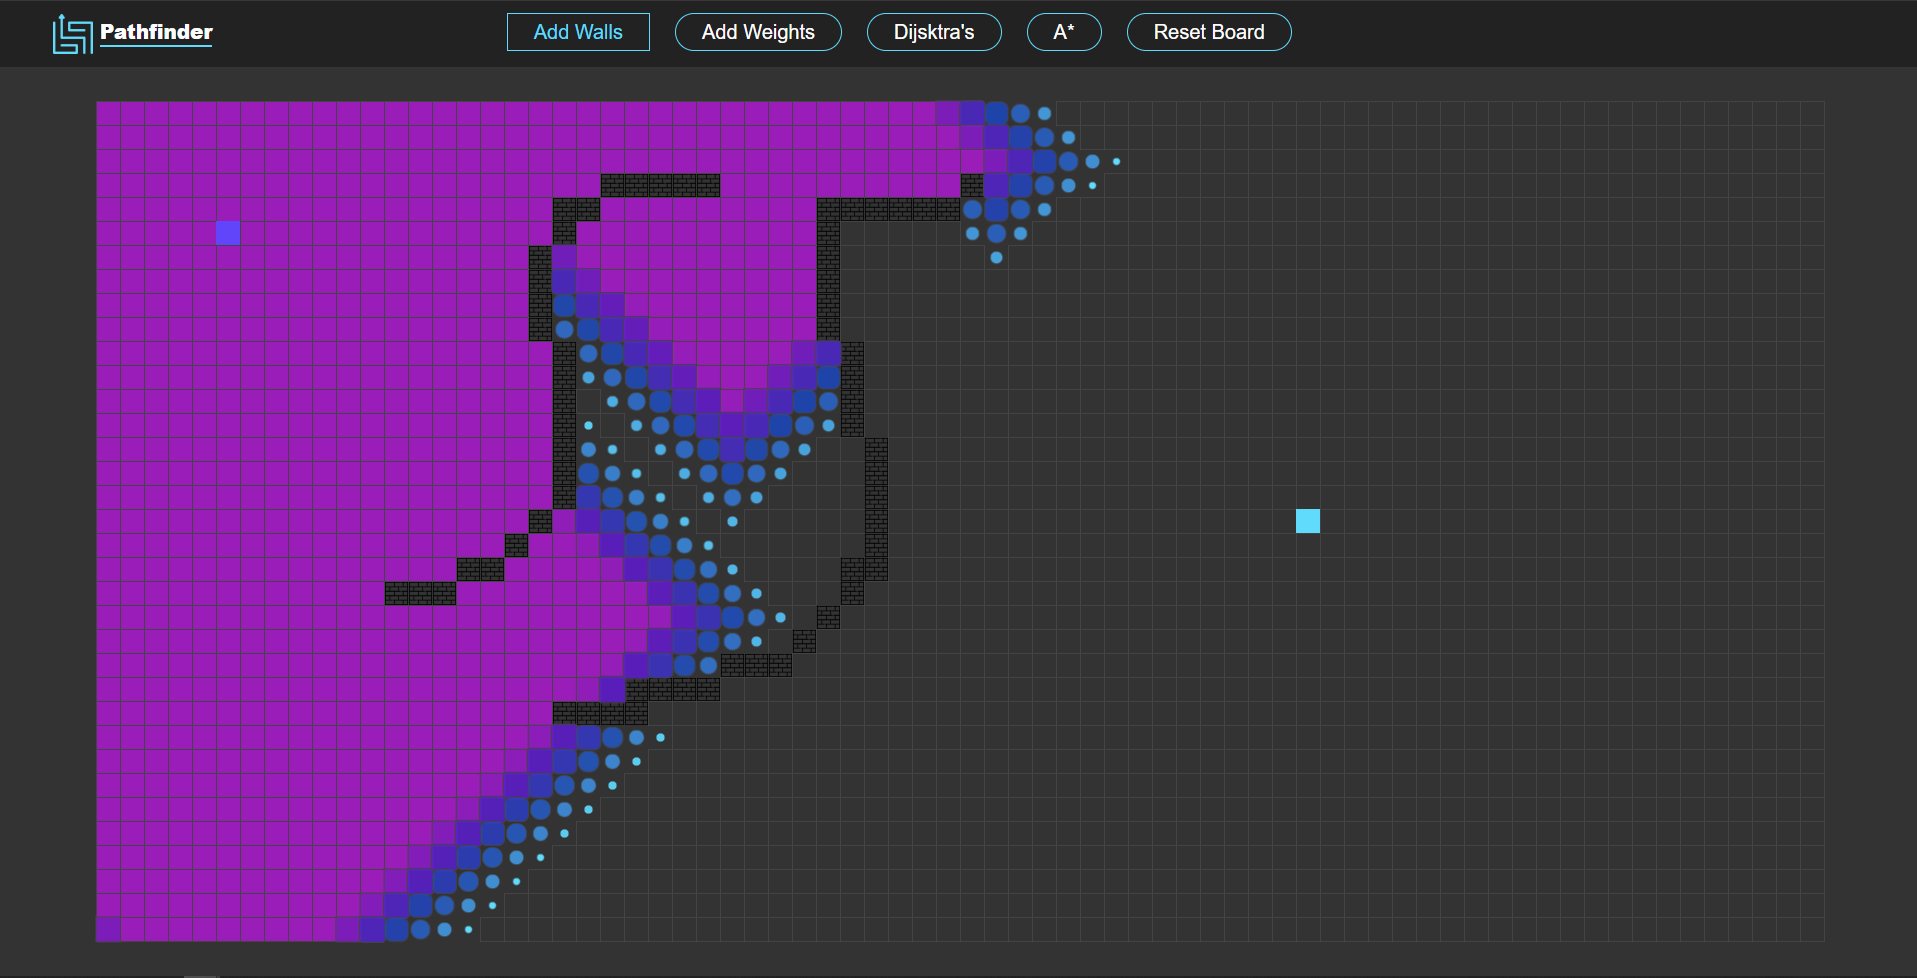
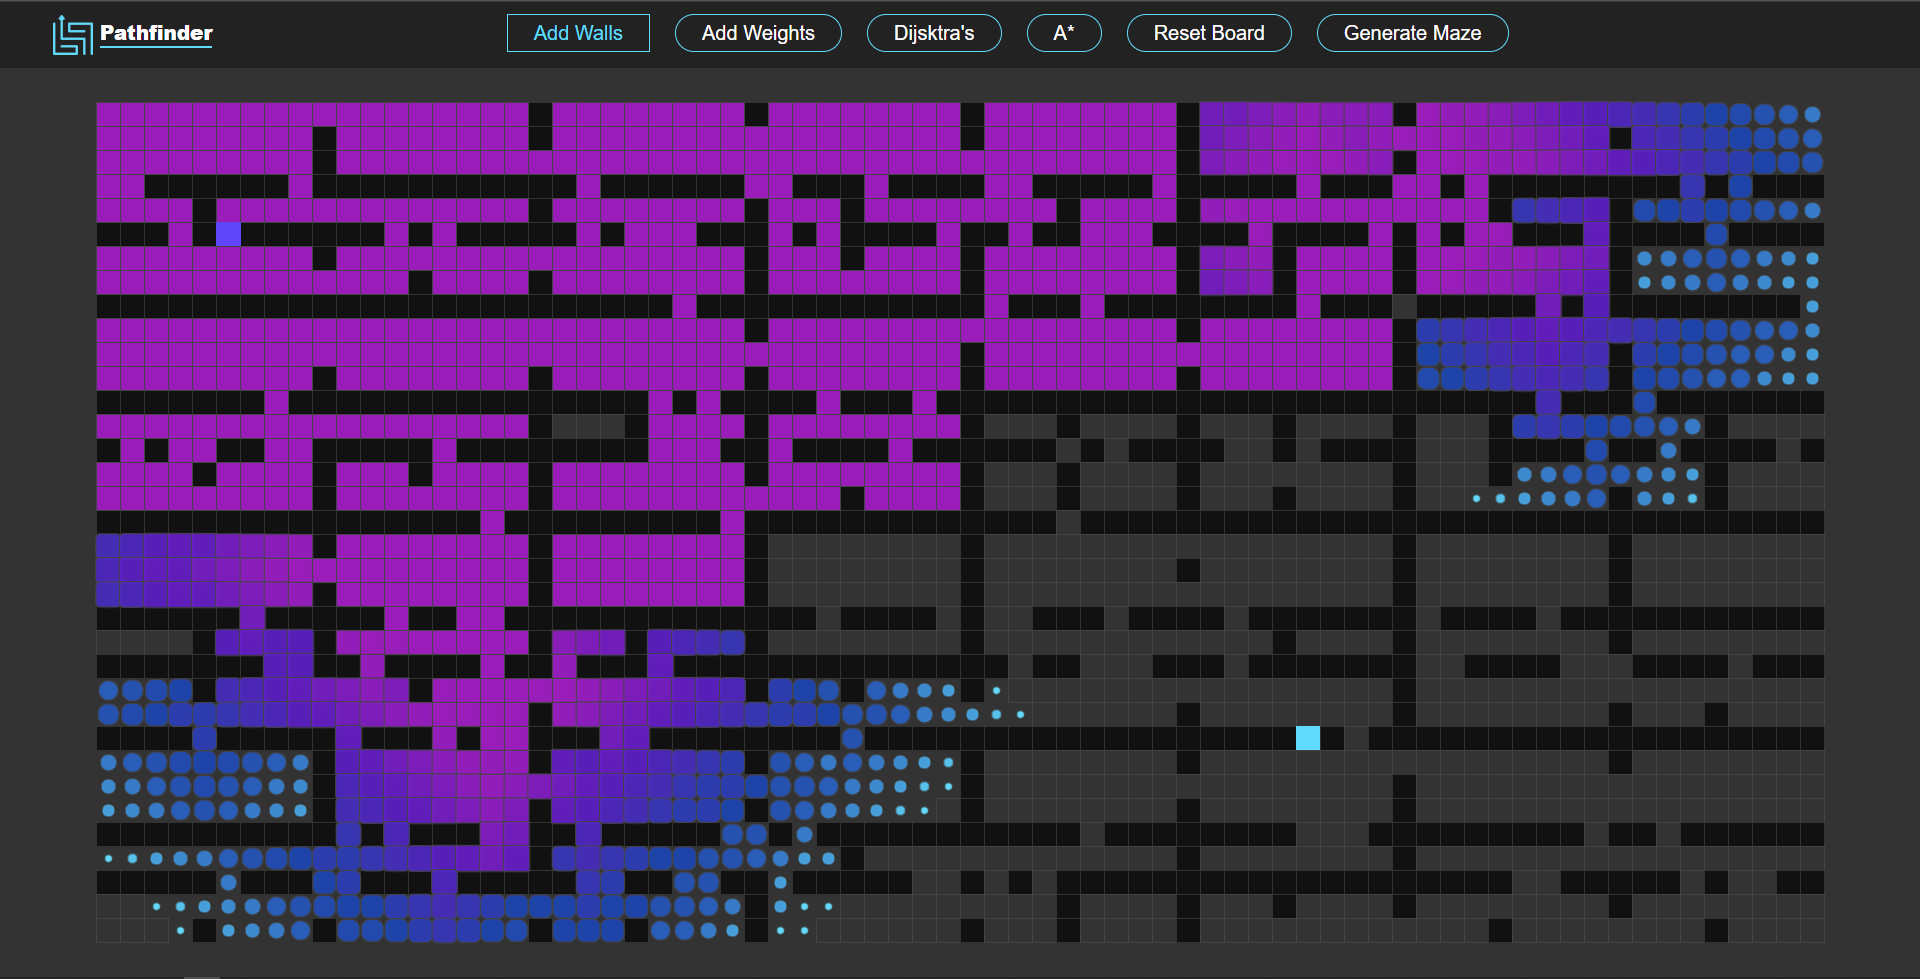
typo fix plus new thumbnail for pathfinder

diff --git a/index.html b/index.html
@@ -82,7 +82,7 @@
 						<img class="ico react" src="public/css/images/react.svg">
 					</div>
 					<p><a class="btn btn-link"  href="https://peterg4.github.io/Pathfinder/build/index.html" role="button">Demo &raquo;</a> <a class="btn btn-link"  href="https://github.com/peterg4/Pathfinder" role="button">Github &raquo;</a></p>
-					<p class="blurb">Visualizer for pathding algorithms including: Djikstra's Algortihm and A*. Supports building impassable walls as well as difficult to pass weights that influence the optimum path.</p>
+					<p class="blurb">Visualizer for pathfinding algorithms including: Djikstra's Algortihm and A*. Includes recursive division maze generation as well as custom wall and weight additions that influence the optimum path.</p>
 				</div>
 
 				<div class="card" data-aos="fade-down" data-aos-delay="100">
